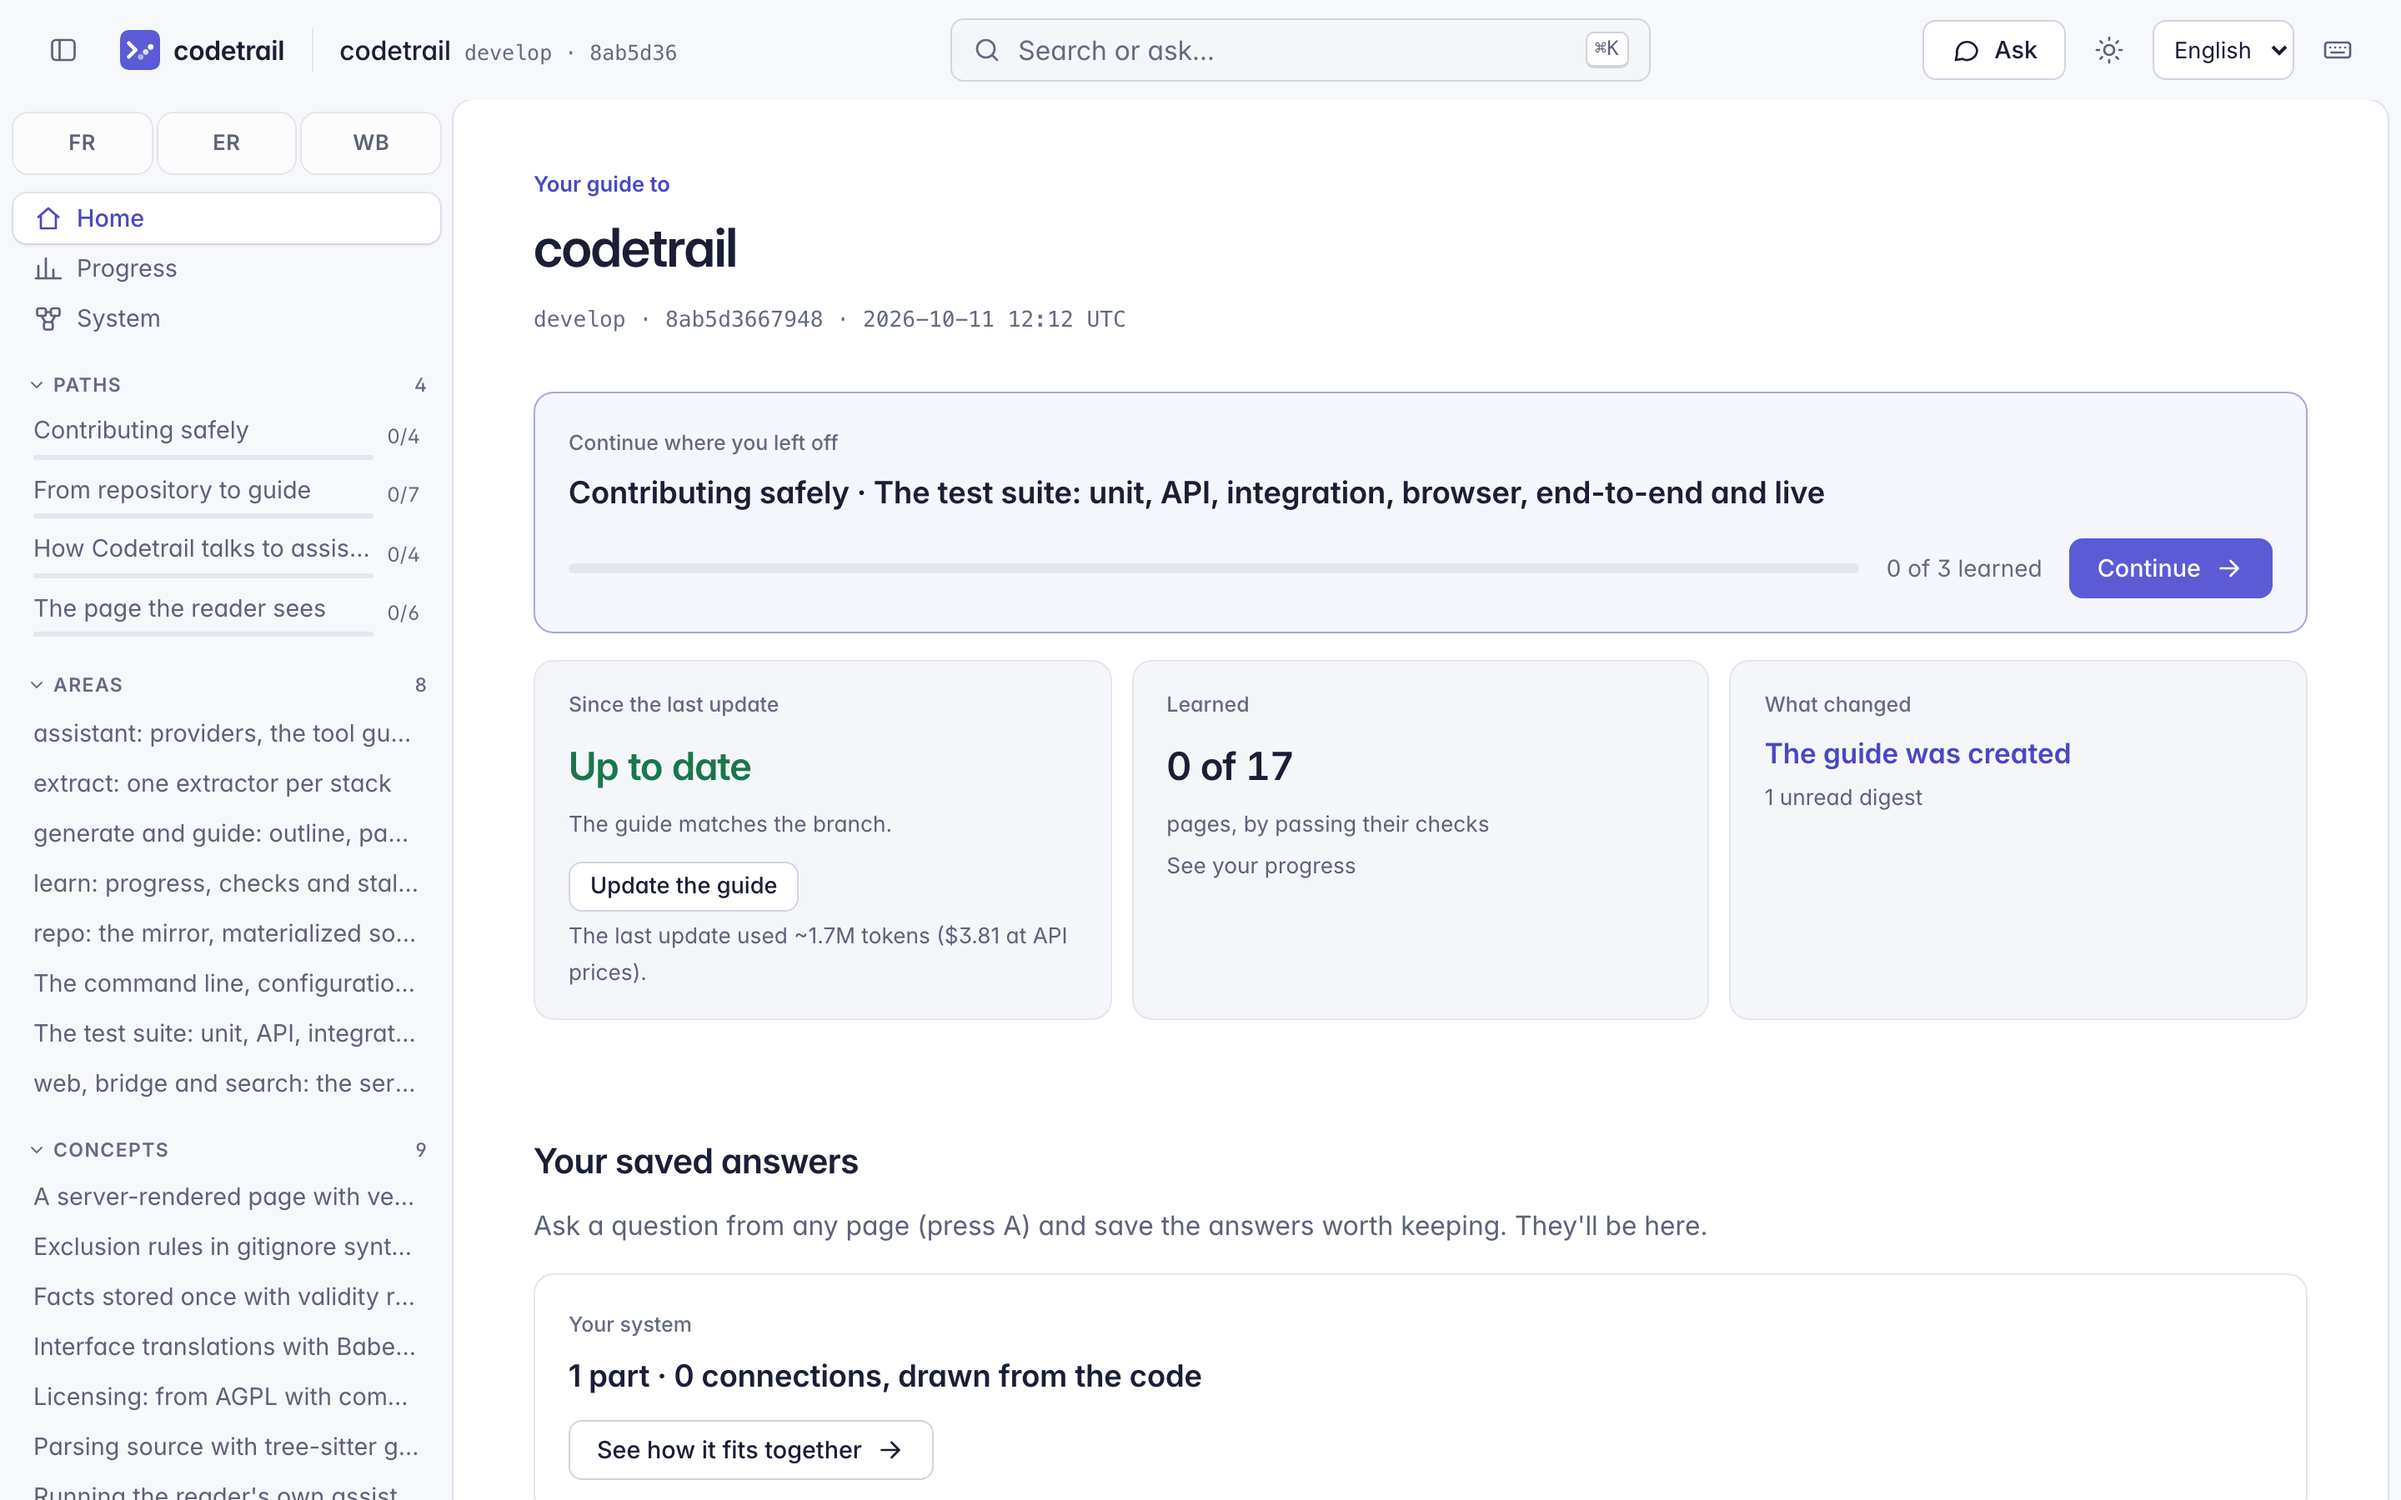
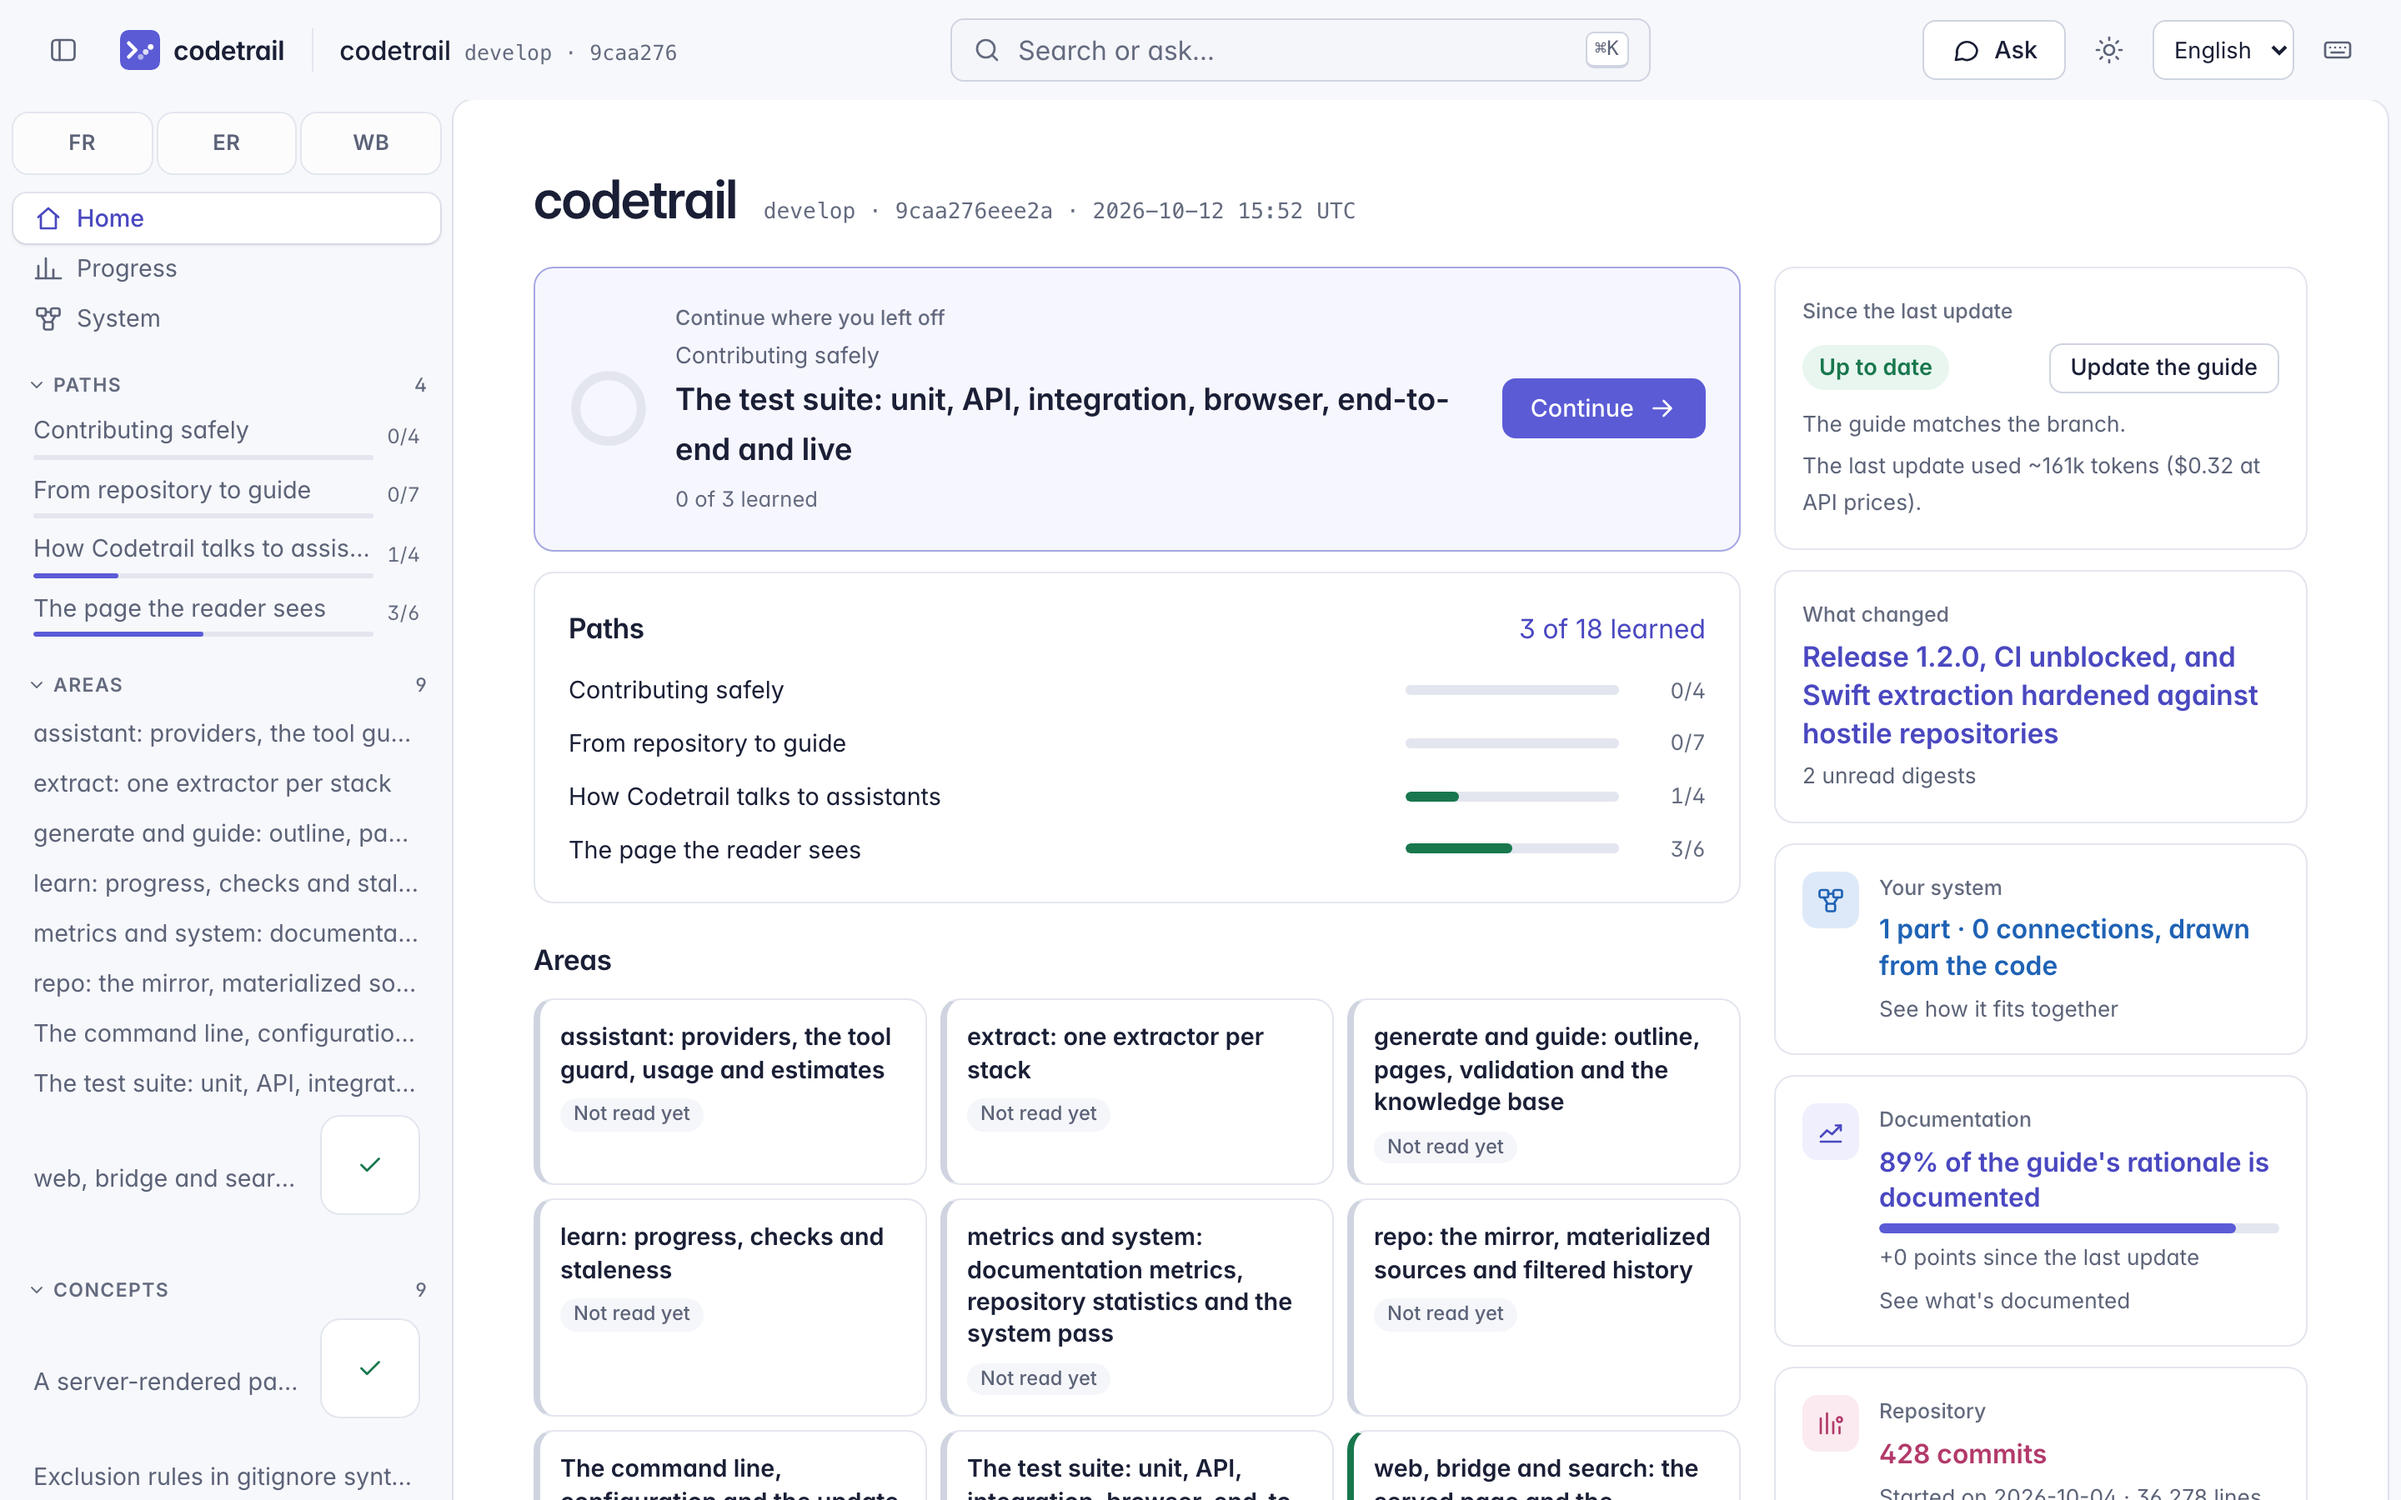
docs(docs): describe the redesigned home page, and retake its screenshot
What: the design's home-page paragraph (section 16.1) describes the
learning column, the rail beside it and when the rail drops below; the
visual system's table (section 16.2) adds the System and Repository
cards' colors. The getting-started guide and the README describe the
new page, the README's home screenshot is retaken from Codetrail's
guide to its own repository (1440x900 at 2x, light), and the changelog
says what changed under Unreleased.

Why: every branch updates the documents its change affects.

Alternatives considered: none.

Risks: none; documentation only. The new screenshot shows a learned
page in the sidebar, which brings out an existing styling bug (the
sidebar's learned tick drawn as a card), tracked separately.

Agent and model: Claude Code, Claude Opus 5.5

diff --git a/docs/design/2026-10-05-codetrail-design.md b/docs/design/2026-10-05-codetrail-design.md
@@ -682,7 +682,7 @@ The feel is a documentation site in the manner of Stripe's: calm, precise, with 
 - **The sidebar hides, peeks, folds and pins pages** (section 22).
 - **Resizing:** the sidebar and the Ask panel have a handle on their inner edge. Drag it, or focus it and use the arrow keys (16 px a step), Home and End; double-click resets. The sidebar stays between 200 and 420 px and at most 30% of the window; the panel between 320 and 720 px and at most 45%. Neither may squeeze the reading column below 480 px: a narrower window shrinks the panels first. Widths are remembered per browser in `localStorage`; below 900 px nothing resizes. The handles are ARIA separators that report their value.
 
-The **home page** leads with progress: the target's name, branch, commit and last update; a "Continue where you left off" card (the current path, its next unlearned page and a progress bar); three figures (how far the guide is behind the branch, with the Update button and the last update's actual cost, labelled as such, since a new estimate needs the facts refreshed first; pages learned, and how many changed since; the unread digest); your newest saved answers; then the areas.
+The **home page** leads with progress, in two columns under one line naming the target, its branch, commit and last update. The wide column is for learning: a "Continue where you left off" card (the current path, its next unlearned page and a ring for its progress); every guided path with its progress, and the pages learned across the guide; the pages changed since you learned them, if any; then the areas, each tile edged and labelled by its state (green learned, amber changed, indigo read, gray not read yet). A rail beside it holds the repository's state: how far the guide is behind the branch, with the Update button and the last update's actual cost, labelled as such, since a new estimate needs the facts refreshed first; the unread digest; the System, Documentation and Repository cards, each with its own color; your newest saved answers; and the folders to browse. The rail drops below the learning column when the page, not the window, is too narrow for both (a CSS container query), so opening the sidebar or the Ask panel can move it.
 
 New routes, alongside those of section 7.1:
 
@@ -709,6 +709,8 @@ Empty states invite rather than apologize ("Ask a question from any page and sav
 | Documented callout | indigo tint | indigo tint |
 | Inferred callout, stale | amber `#b26a00` and its tint | amber `#f0b255` and its tint |
 | Learned | green `#18774d` | `#5fd39b` |
+| System card | the chart's blue, text `#1f62b5` | the chart's blue, text `#79b0f2` |
+| Repository card | the chart's pink, text `#b23a6a` | the chart's pink, text `#f08cb3` |
 
 - **Type.** Inter (weights 400, 500 and 600) for everything, bundled with Codetrail ([ADR 0007](../adr/0007-bundle-the-inter-typeface.md)); Arabic letters in Noto Sans Arabic, next in the font stack and loaded only for them ([ADR 0014](../adr/0014-bundle-noto-sans-arabic.md), proposed), with no letter-spacing on right-to-left text; code in the system's monospace (`ui-monospace`, SF Mono, Menlo). Body text 16 px with a line height of 1.65.
 - **Shape.** A 4 px spacing scale; 8 px corners on controls and 12 px on cards; hairline borders; shadows only on what floats (the palette, dialogs and the Ask panel).

diff --git a/docs/getting-started.md b/docs/getting-started.md
@@ -123,9 +123,9 @@ codetrail serve shop
 
 `serve` prints a one-time sign-in link and opens it in your browser. The page runs on `127.0.0.1` only, and the session ends when you stop `serve` (Ctrl-C). An update you started from the page stops with it, and the guide stays as it was before that update.
 
-![The home page: continue where you left off, how far behind the guide is, and your saved answers](images/home.png)
+![The home page: continue where you left off and every path's progress, with how far behind the guide is in the rail beside them](images/home.png)
 
-- **The home page** picks up where you left off: the next page of your current path, how far the guide is behind the branch (with what the last update used), how much you've learned, what changed, and your saved answers.
+- **The home page** picks up where you left off: the next page of your current path, every path's progress and how much you've learned, and the areas, each marked learned, changed, read or not read yet. Beside them, a rail shows how far the guide is behind the branch (with what the last update used), what changed, the System, Documentation and Repository cards, your saved answers and the folders to browse.
 - **The sidebar** lists the guided paths with your progress, the areas and concepts, your saved answers, the digests and the decisions. Each section folds from its heading. Pin the pages you use most with the pin on their row: they sit as tiles at the top, in any browser. Hide the sidebar with the button at the start of the header, or **\\**, and the page takes the whole width; rest the pointer on the window's edge to peek at it.
 - **System** (in the sidebar, or **G** then **Y**) draws how the repository's parts connect: services, apps, libraries, contracts, infrastructure and where each runs. Solid arrows come from a file you can open; dashed ones were matched by name. Each area page shows the same diagram focused on its folder.
 - **Documentation** (in the sidebar, or **G** then **O**) shows how well the repository explains itself: how much of the guide's rationale is documented and from where, which commits explain why, which ADRs need attention, and which dependencies no document mentions, each with the items behind it and a trend across updates. An overview beside the page shows each number with its bar and trend; each section opens to a chart and its items, the one most in need opens first, and the long lists filter by kind. It's free; `codetrail metrics shop` prints the same numbers. What counts as a document, and as a commit that explains why, is set per repository in `[metrics]` in its settings file.

diff --git a/CHANGELOG.md b/CHANGELOG.md
@@ -4,6 +4,9 @@ Every notable change to Codetrail, newest first. The format follows [Keep a Chan
 
 ## [Unreleased]
 
+### Changed
+- The home page is redesigned to use its space and show more in color: learning sits in a wide column (where to continue, with a ring for the path's progress; every guided path with its own progress; the areas, each edged and labelled learned, changed, read or not read yet) beside a rail with the guide's state against the branch, what changed, the System, Documentation and Repository cards, each in its own color, your saved answers and the folders to browse as chips. The rail moves below the column when the page is narrow, including when the Ask panel takes the room.
+
 ### Fixed
 - The Documentation page no longer takes a minute or more to open the first time after an update on a repository with images under `docs/`: images and other binary files that match the document globs are skipped instead of being read as text, which also stops their bytes from counting as a document mentioning a package.
 

diff --git a/README.md b/README.md
@@ -13,7 +13,7 @@ It works with the assistant you already pay for: **Claude Code** on a Claude sub
 
 **[Get started in ten minutes →](docs/getting-started.md)**
 
-![Codetrail's home page for its own repository: pinned pages and folding sections in the sidebar, where to continue, how far behind the guide is, what you've learned and what changed](docs/images/home.png)
+![Codetrail's home page for its own repository: pinned pages and folding sections in the sidebar; where to continue, every path's progress and the areas by state; and beside them, how far behind the guide is, what changed and the system, documentation and repository cards](docs/images/home.png)
 
 ## Contents
 - [Why Codetrail](#why-codetrail)
